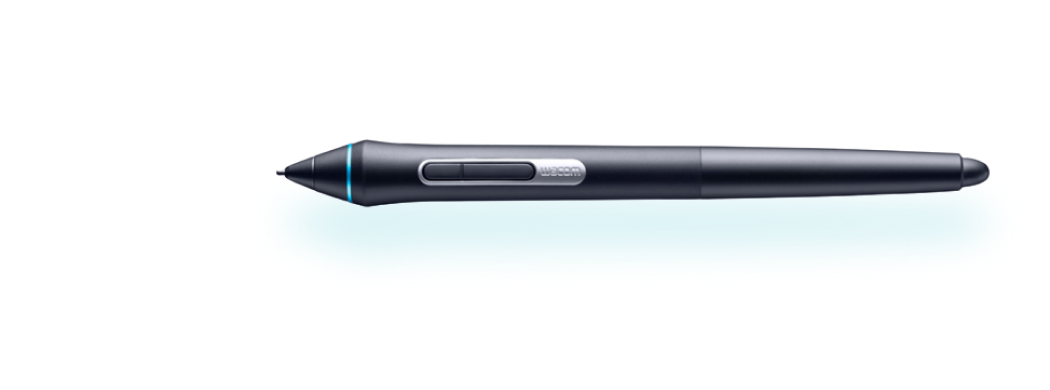
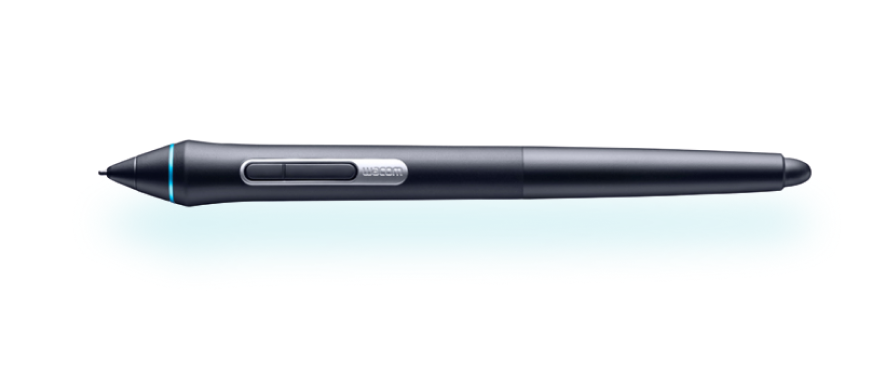
comparacion de los lapices con slider

Changed region(s): [[0.0929, 0.3385, 0.8979, 0.6462], [0.5883, 0.3692, 0.9599, 0.4923]]

diff --git a/styles/main.css b/styles/main.css
@@ -556,15 +556,42 @@ li {
   }
 }
 
-.pencil_description {
-  margin-top: 200px;
+.pencil_compare {
+  display: -webkit-box;
+  display: -ms-flexbox;
+  display: flex;
+  -webkit-box-orient: vertical;
+  -webkit-box-direction: normal;
+      -ms-flex-direction: column;
+          flex-direction: column;
   -webkit-box-align: center;
       -ms-flex-align: center;
           align-items: center;
+  margin-top: 200px;
 }
 
-.pencil_description img {
-  width: 100%;
+.pencil_compare__images {
+  position: relative;
+}
+
+.pencil_compare__images img {
+  width: 500px;
+}
+
+.pencil_compare__images img:last-child {
+  position: absolute;
+  left: 0;
+  width: 0%;
+  height: 100%;
+  -o-object-fit: cover;
+     object-fit: cover;
+  -o-object-position: left;
+     object-position: left;
+}
+
+.pencil_compare__input {
+  width: 40%;
+  margin: auto;
 }
 
 @media (max-width: 600px) {

diff --git a/scripts/main.js b/scripts/main.js
@@ -23,9 +23,21 @@ carrouselSlider.addEventListener('input', function() {
 
 
 
-var options = {
-  width: 800,
-  zoomWidth: 500,
-  offset: { vertical: 0, horizontal: 10 }
-};
-new ImageZoom(document.querySelector('.pencil_description'), options);
+//var options = {
+//  width: 800,
+  //zoomWidth: 500,
+ // offset: { vertical: 0, horizontal: 10 }
+//};
+//new ImageZoom(document.querySelector('.pencil_description'), options);
+
+
+const slider = document.querySelector('.pencil_compare__input');
+const img = document.querySelector('.pencil_compare__images img:last-child');
+
+function handleSlider () {
+  //console.log('hola', slider.value);
+  // img.style.opacity = slider.value;
+  img.style.width = (slider.value * 100) + '%';
+}
+slider.addEventListener('input', handleSlider);
+

diff --git a/styles/_pencil_compare.scss b/styles/_pencil_compare.scss
@@ -1,0 +1,42 @@
+.pencil_compare {
+    display: flex;
+    flex-direction: column;
+    align-items: center;
+    margin-top: 200px;
+  
+    &__images {
+      position: relative;
+
+
+      img {
+        width: 500px;
+        
+        &:last-child {
+          position: absolute;
+          left: 0;
+          //opacity: 0;
+  
+          width: 0%;
+          height: 100%;
+          object-fit: cover;
+          object-position: left;
+        }
+      }
+    }
+  
+    &__input {
+      width: 40%;
+      margin: auto;
+    }
+  }
+
+@media (max-width: 600px){
+.pencil_description{
+    display: flex;
+    flex-direction: column;
+
+    div:last-child{
+        position: static;
+    }
+}
+}

diff --git a/index.html b/index.html
@@ -109,9 +109,16 @@
 
     </div>
 
-    <div class="pencil_description">
-        <img src="./img/Group 4.png">
+    <div class="pencil_compare">
+        <div class="pencil_compare__images">
+            <img src="./img/image 33.png" alt="">
+            <img src="./img/image 25.png" alt="">
+        </div>
+      
+    
+    <input type="range" min="0" max="1" step=".01" value="0" class="pencil_compare__input">
     </div>
+    
 
 
 

diff --git a/styles/main.scss b/styles/main.scss
@@ -34,7 +34,7 @@ body{
 @import 'nav_icons';
 @import 'new_model';
 @import 'description2';
-@import 'pencil_description';
+@import 'pencil_compare';
 @import 'description3';
 @import 'gallery';
 @import 'description4';
